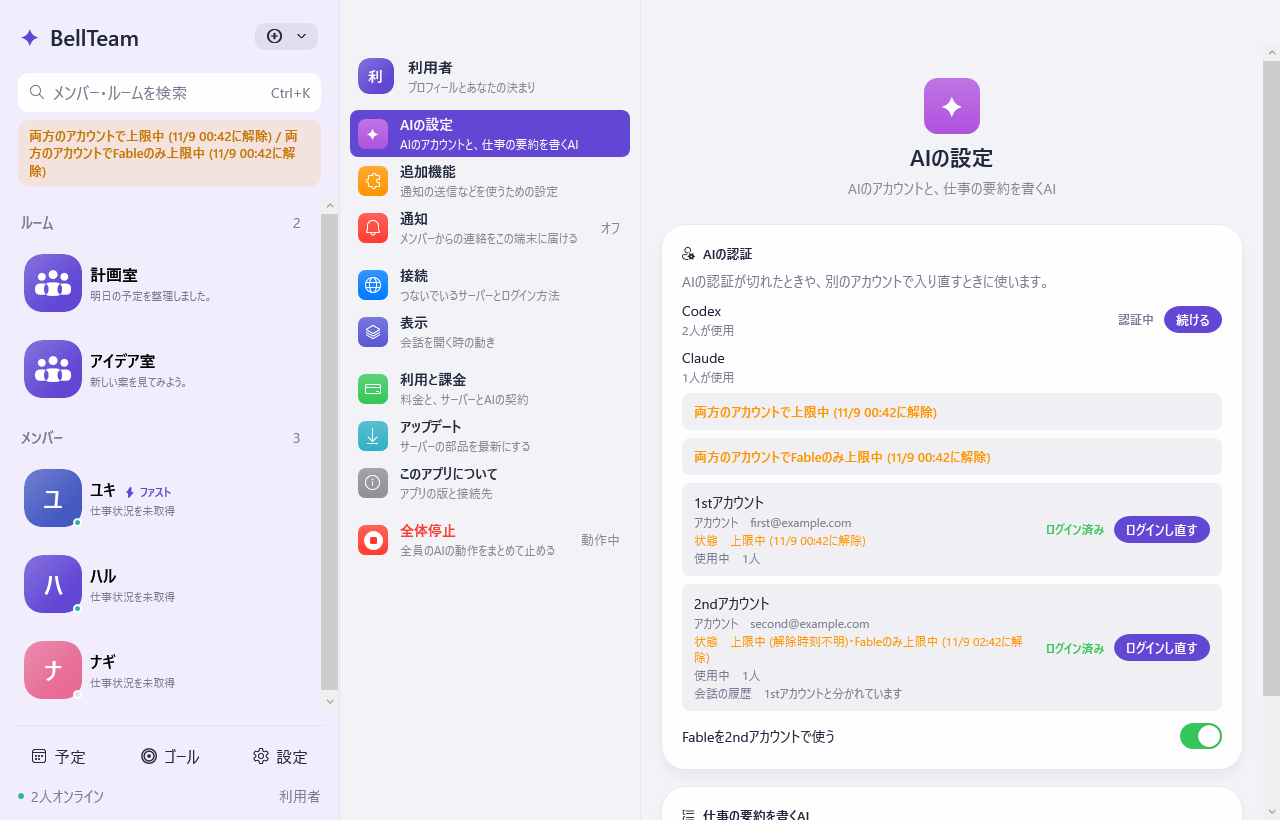
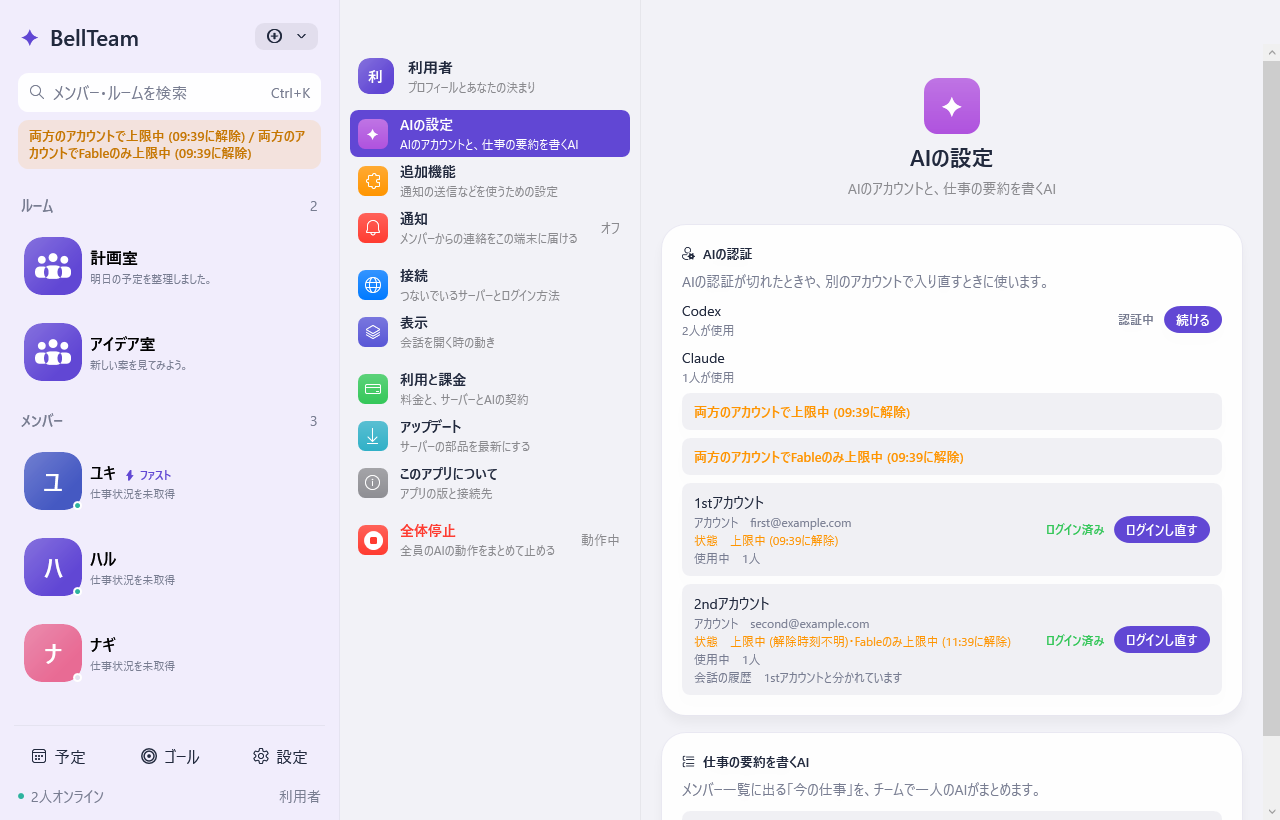
Windows: Claude accounts are limit-driven only; remove the Fable switch
Owner ruling 2026-11-09 (Kiro contract PR #711): no preference rules.
Remove the 「Fableを2ndアカウントで使う」 switch, POST /api/accounts/rules
and the use of account.preferredSlot (the 'normally' tooltip). Keep the
per-slot label, login state, per-model limits in JST, seats, the banners
and the old card on 404. Diagram and docs updated first.

diff --git a/windows/BellTeam.Tests/HarnessAccountsTests.cs b/windows/BellTeam.Tests/HarnessAccountsTests.cs
@@ -36,7 +36,6 @@ public sealed class HarnessAccountsTests
         Assert.Equal(new AccountLimit("all", "2026-11-08T04:00:00Z", "2026-11-09T23:00:00Z", "usage"), claude.Slots[0].Limits.Single());
         Assert.Null(claude.Slots[1].Limits.Single().ResetAt);
         Assert.Equal(new AccountAllLimited("all", "2026-11-08T08:00:00Z"), claude.AllLimited.Single());
-        Assert.Empty(list.Rules);
     }
 
     [Fact]
@@ -50,21 +49,6 @@ public sealed class HarnessAccountsTests
         }
         using var broken = new BellApi(new("http://localhost/"), new StubHandler((_, _) => Task.FromResult(StubHandler.Json("""{"harnesses":"x"}"""))));
         await Assert.ThrowsAnyAsync<Exception>(() => new HarnessAccountsApi(broken).ReadAsync());
-    }
-
-    [Theory]
-    [InlineData(true, """{"harness":"claude","modelPrefix":"claude-fable","slot":"2nd"}""")]
-    [InlineData(false, """{"harness":"claude","modelPrefix":"claude-fable","slot":null}""")]
-    public async Task SetRuleIsOneUpsertPostWithTheContractBody(bool useSecond, string expected)
-    {
-        var calls = new List<(HttpMethod, string, string)>();
-        using var api = new BellApi(new("http://localhost/"), new StubHandler(async (request, token) =>
-        {
-            calls.Add((request.Method, request.RequestUri!.AbsolutePath, await request.Content!.ReadAsStringAsync(token)));
-            return StubHandler.Json("""{"rules":[{"harness":"claude","modelPrefix":"claude-fable","slot":"2nd"},{"harness":"claude","modelPrefix":"claude-opus","slot":"1st"}]}""");
-        }));
-        var rules = await new HarnessAccountsApi(api).SetFableRuleAsync(useSecond);
-        Assert.Equal((HttpMethod.Post, "/api/accounts/rules", expected), Assert.Single(calls)); Assert.Equal(2, rules.Length);
     }
 
     [Fact]
@@ -112,10 +96,9 @@ public sealed class HarnessAccountsTests
     }
 
     [Fact]
-    public void SlotLinesAndTheFableSwitchComeFromTheList()
+    public void SlotLinesComeFromTheList()
     {
         var list = JsonSerializer.Deserialize<AccountsResponse>(Both, BellApi.Json)!;
-        Assert.True(AccountText.FableOnSecond(list)); Assert.False(AccountText.FableOnSecond(list with { Rules = [new("claude", "claude-fable", "1st")] }));
         var first = list.Claude!.Slots[0]; var second = list.Claude.Slots[1];
         Assert.Equal("first@example.com", AccountText.Login(first)); Assert.Equal("Fableのみ上限中 (23:00に解除)", AccountText.State(first, Now));
         Assert.Equal("未ログイン", AccountText.Login(second)); Assert.Equal("—", AccountText.State(second, Now));
@@ -176,14 +159,14 @@ public sealed class HarnessAccountsTests
     private static string[] Texts(DependencyObject root) => Descendants<TextBlock>(root).Select(text => text.Text).ToArray();
 
     [Fact]
-    public void CardShowsBothSlotRowsTheBannerAndTheSwitch()
+    public void CardShowsBothSlotRowsAndTheBannerWithoutAnyRuleSwitch()
     {
         RunSta(() =>
         {
             var posts = new List<string>();
             using var workspace = Server((request, _) => Task.FromResult(request.Method == HttpMethod.Get ? StubHandler.Json(AllLimited) : StubHandler.Json("""{"rules":[]}""")), posts);
             var window = OpenCard(workspace); var texts = Texts(window);
-            Assert.Contains("1stアカウント", texts); Assert.Contains("2ndアカウント", texts); Assert.Contains("Fableを2ndアカウントで使う", texts);
+            Assert.Contains("1stアカウント", texts); Assert.Contains("2ndアカウント", texts); Assert.DoesNotContain("Fableを2ndアカウントで使う", texts);   // Owner ruling 2026-11-09: limits alone pick the slot
             Assert.Contains("アカウント　a@example.com", texts); Assert.Contains("使用中　1人", texts);
             Assert.Contains(texts, text => text.StartsWith("両方のアカウントで上限中 ("));
             Assert.Contains("状態　上限中 (解除時刻不明)", texts);
@@ -222,27 +205,6 @@ public sealed class HarnessAccountsTests
         });
     }
 
-    [Fact]
-    public void SwitchSendsOnePostAndAnUnconfirmedAnswerIsNeverShownAsSuccess()
-    {
-        RunSta(() =>
-        {
-            var posts = new List<string>(); var answer = "ok";
-            using var workspace = Server((request, _) => Task.FromResult(request.Method == HttpMethod.Get ? StubHandler.Json(Both.Replace("\"rules\":[{\"harness\":\"claude\",\"modelPrefix\":\"claude-fable\",\"slot\":\"2nd\"}]", "\"rules\":[]"))
-                : answer == "ok" ? StubHandler.Json("""{"rules":[{"harness":"claude","modelPrefix":"claude-fable","slot":"2nd"}]}""") : StubHandler.Json("""{"error":"TEMPORARY_FAILURE"}""", HttpStatusCode.BadGateway)), posts);
-            var window = OpenCard(workspace);
-            var toggle = Descendants<ToggleButton>(window).Single(); Assert.False(toggle.IsChecked);
-            toggle.IsChecked = true; toggle.RaiseEvent(new RoutedEventArgs(ButtonBase.ClickEvent)); Await(Task.Delay(50)); Pump();
-            Assert.Equal(["/api/accounts/rules {\"harness\":\"claude\",\"modelPrefix\":\"claude-fable\",\"slot\":\"2nd\"}"], posts);
-            Assert.True(toggle.IsChecked);
-            answer = "bad"; toggle.IsChecked = false; toggle.RaiseEvent(new RoutedEventArgs(ButtonBase.ClickEvent)); Await(Task.Delay(50)); Pump();
-            Assert.Equal(2, posts.Count);              // never resent
-            Assert.True(toggle.IsChecked);             // back to the last known server state, not shown as switched off
-            Assert.Contains(Texts(window), text => text.StartsWith("切り替えの結果を確認できませんでした。"));
-            Assert.Contains(Descendants<Button>(window), button => button.Content as string == "一覧を更新"); window.Close();
-        });
-    }
-
     private static IEnumerable<T> Descendants<T>(DependencyObject root) where T : DependencyObject
     {
         if (root is T found) yield return found;
@@ -261,13 +223,13 @@ public sealed class HarnessAccountsTests
     public async Task AnAppRefusal403IsNotALostSignInButANonJson403Is()
     {
         var signIns = 0;
-        using var refused = new BellApi(new("http://localhost/"), new StubHandler((_, _) => Task.FromResult(StubHandler.Json("""{"error":"ACCOUNT_RULE_OWNER_REQUIRED"}""", HttpStatusCode.Forbidden))));
+        using var refused = new BellApi(new("http://localhost/"), new StubHandler((_, _) => Task.FromResult(StubHandler.Json("""{"error":"WORK_GRAPH_OWNER_REQUIRED"}""", HttpStatusCode.Forbidden))));
         refused.AuthenticationRequired += () => signIns++;
-        var error = await Assert.ThrowsAsync<BellApiException>(() => new HarnessAccountsApi(refused).SetFableRuleAsync(true));
-        Assert.Equal(AccountText.RuleOwnerRequiredCode, error.Code); Assert.False(error.RequiresLogin); Assert.Equal(0, signIns);
+        var error = await Assert.ThrowsAsync<BellApiException>(() => new HarnessAccountsApi(refused).ReadAsync());
+        Assert.Equal("WORK_GRAPH_OWNER_REQUIRED", error.Code); Assert.False(error.RequiresLogin); Assert.Equal(0, signIns);
         using var access = new BellApi(new("http://localhost/"), new StubHandler((_, _) => Task.FromResult(new HttpResponseMessage(HttpStatusCode.Forbidden) { Content = new StringContent("<html>Access denied</html>", System.Text.Encoding.UTF8, "text/html") })));
         access.AuthenticationRequired += () => signIns++;
-        var denied = await Assert.ThrowsAsync<BellApiException>(() => new HarnessAccountsApi(access).SetFableRuleAsync(true));
+        var denied = await Assert.ThrowsAsync<BellApiException>(() => new HarnessAccountsApi(access).ReadAsync());
         Assert.True(denied.RequiresLogin); Assert.Equal(1, signIns); Assert.Equal("Cloudflare Accessへログインしてください。", denied.Message);
     }
 

diff --git a/windows/BellTeam.Core/HarnessAccounts.cs b/windows/BellTeam.Core/HarnessAccounts.cs
@@ -22,36 +22,27 @@ public sealed record AccountHarness
     public AccountSlot[] Slots { get; init; } = [];
     public AccountAllLimited[] AllLimited { get; init; } = [];
 }
-public sealed record AccountRule(string Harness, string ModelPrefix, string? Slot);
 public sealed record AccountsResponse
 {
     public AccountHarness[] Harnesses { get; init; } = [];
-    public AccountRule[] Rules { get; init; } = [];
     public AccountHarness? Claude => Harnesses.FirstOrDefault(item => item.Harness == "claude" && item.Slots.Length != 0);
 }
-public sealed record AccountRulesResponse { public AccountRule[] Rules { get; init; } = []; }
 // Bot item 'account' (transport.seatAccount): absent on older bodies and null for a seat without a slot.
-public sealed record SeatAccount(string? Harness, string? Slot, string? PreferredSlot);
+// Limits alone pick the slot (Owner ruling 2026-11-09), so the server's preferredSlot is not read.
+public sealed record SeatAccount(string? Harness, string? Slot);
 
 public sealed class HarnessAccountsApi(BellApi api)
 {
-    public const string FablePrefix = "claude-fable";
     // null means an older body (HTTP 404 of GET /api/accounts): the caller shows the old single Claude card. Any other failure throws.
     public async Task<AccountsResponse?> ReadAsync(CancellationToken token = default)
     {
         try { return await api.GetAsync<AccountsResponse>("/api/accounts", token); }
         catch (BellApiException error) when (error.Status == HttpStatusCode.NotFound) { return null; }
     }
-    // One POST per call; the caller never resends it. slot null removes the rule.
-    public async Task<AccountRule[]> SetFableRuleAsync(bool useSecond, CancellationToken token = default)
-        => (await api.PostAsync<AccountRulesResponse>("/api/accounts/rules", new { harness = "claude", modelPrefix = FablePrefix, slot = useSecond ? "2nd" : (string?)null }, token)).Rules;
 }
 
 public static class AccountText
 {
-    // Kiro, 2026-11-08: the text for a 403 ACCOUNT_RULE_OWNER_REQUIRED on POST /api/accounts/rules.
-    public const string RuleOwnerRequired = "アカウントの設定を変えられるのはオーナーだけです。オーナーとしてサインインしているか確かめてください。";
-    public const string RuleOwnerRequiredCode = "ACCOUNT_RULE_OWNER_REQUIRED";
     private static readonly TimeSpan Jst = TimeSpan.FromHours(9);
     public static string? SlotTitle(string? slot) => slot switch { "1st" => "1stアカウント", "2nd" => "2ndアカウント", _ => null };
 
@@ -71,8 +62,6 @@ public static class AccountText
     }
     public static string[] BannerTexts(AccountsResponse? list, DateTimeOffset now)
         => (list?.Claude?.AllLimited ?? []).Select(item => "両方のアカウントで" + LimitText(item.Scope, item.EarliestResetAt, now)).ToArray();
-    public static bool FableOnSecond(AccountsResponse? list)
-        => list?.Rules.Any(rule => rule.Harness == "claude" && rule.ModelPrefix == HarnessAccountsApi.FablePrefix && rule.Slot == "2nd") == true;
     // A value the server did not send is 未確認, never a guess.
     public static string Login(AccountSlot slot) => slot.LoggedIn switch { true => string.IsNullOrEmpty(slot.Label) ? "ログイン済み" : slot.Label, false => "未ログイン", _ => "ログイン状態は未確認" };
     public static string State(AccountSlot slot, DateTimeOffset now)

diff --git a/windows/BellTeam.App/SettingsPages.cs b/windows/BellTeam.App/SettingsPages.cs
@@ -198,26 +198,6 @@ public sealed partial class SettingsWindow
             var (row, state) = AuthRow(names, harness, auth, slot.Slot, Reload, token); row.Margin = new Thickness(0);
             var card = FillRow(row, null); System.Windows.Automation.AutomationProperties.SetName(card, slotTitle); host.Children.Add(card); ready.Add(state);
         }
-        var rule = new Grid { Margin = new Thickness(0, 12, 0, 0) }; rule.ColumnDefinitions.Add(new ColumnDefinition()); rule.ColumnDefinitions.Add(new ColumnDefinition { Width = GridLength.Auto });
-        var ruleName = Text("Fableを2ndアカウントで使う", 14, Ink); ruleName.VerticalAlignment = VerticalAlignment.Center; rule.Children.Add(ruleName);
-        var current = list; var toggle = Switch("#34C759"); toggle.IsChecked = AccountText.FableOnSecond(current); Grid.SetColumn(toggle, 1); rule.Children.Add(toggle);
-        System.Windows.Automation.AutomationProperties.SetName(toggle, "Fableを2ndアカウントで使う");
-        var ruleError = Text("", 13, Red, null, new Thickness(0, 8, 0, 0)); ruleError.Visibility = Visibility.Collapsed;
-        host.Children.Add(rule); host.Children.Add(ruleError);
-        // One POST per click, never resent. A failed or unconfirmed answer leaves the switch at the last known server state and offers a re-read.
-        toggle.Click += async (_, _) =>
-        {
-            var wanted = toggle.IsChecked == true; toggle.IsEnabled = false; ruleError.Visibility = Visibility.Collapsed;
-            try { current = current with { Rules = await accounts.SetFableRuleAsync(wanted, token) }; toggle.IsChecked = AccountText.FableOnSecond(current); }
-            catch (OperationCanceledException) when (token.IsCancellationRequested) { }
-            catch (Exception error)
-            {
-                toggle.IsChecked = AccountText.FableOnSecond(current);
-                ruleError.Text = error is BellApiException { Code: AccountText.RuleOwnerRequiredCode } ? AccountText.RuleOwnerRequired : BellApiException.IsResultUnconfirmed(error) ? "切り替えの結果を確認できませんでした。「一覧を更新」で今の設定を確認してください。\n" + error.Message : "切り替えられませんでした。" + error.Message;
-                ruleError.Visibility = Visibility.Visible; if (host.Children[^1] is not Button) host.Children.Add(Retry());
-            }
-            finally { toggle.IsEnabled = true; }
-        };
         await Task.WhenAll(ready);
     }
 

diff --git a/windows/BellTeam.App/ProfileView.cs b/windows/BellTeam.App/ProfileView.cs
@@ -99,7 +99,7 @@ public sealed class ProfileView : StackPanel
     private static string Key(Workspace workspace, ConversationEntry entry)
     {
         var parts = new List<string?> { entry.Target.ToString(), entry.Origin };
-        if (entry.Bot is { } bot) parts.AddRange([bot.Name, bot.DisplayName, bot.Online.ToString(), bot.Harness, bot.Model, bot.ReasoningEffort, bot.Color, bot.AvatarVersion, bot.AvatarLargeVersion, bot.Position, bot.ProfileText, bot.Personality, bot.SpeechStyle, bot.Role, bot.Account?.Harness, bot.Account?.Slot, bot.Account?.PreferredSlot]);
+        if (entry.Bot is { } bot) parts.AddRange([bot.Name, bot.DisplayName, bot.Online.ToString(), bot.Harness, bot.Model, bot.ReasoningEffort, bot.Color, bot.AvatarVersion, bot.AvatarLargeVersion, bot.Position, bot.ProfileText, bot.Personality, bot.SpeechStyle, bot.Role, bot.Account?.Harness, bot.Account?.Slot]);
         if (entry.Room is { } room) { parts.AddRange([room.Name, room.Purpose, room.AvatarVersion]); foreach (var id in room.MemberIds) { var member = workspace.MemberEntry(id); parts.AddRange([id, member?.Name, member?.Bot?.AvatarVersion, member?.Bot?.Color]); } }
         return string.Join('\u0001', parts);
     }
@@ -245,8 +245,6 @@ public sealed class ProfileView : StackPanel
             var row = new StackPanel { Orientation = Orientation.Horizontal, Margin = new Thickness(0, 12, 0, 0) };
             row.Children.Add(new TextBlock { Text = label, FontSize = 14, Foreground = InspectorUi.Ink }); row.Children.Add(new TextBlock { Text = value, FontSize = 14, Foreground = InspectorUi.Ink, Margin = new Thickness(10, 0, 0, 0), TextWrapping = TextWrapping.Wrap });
             System.Windows.Automation.AutomationProperties.SetName(row, label + "　" + value); card.Children.Add(row);
-            // Like the Web tooltip: say so when the seat runs on the other slot than its rule prefers.
-            if (label == "アカウント" && AccountText.SlotTitle(bot.Account?.PreferredSlot) is { } preferred && bot.Account?.PreferredSlot != bot.Account?.Slot) row.ToolTip = "通常は" + preferred;
         }
         var screen = InspectorUi.Bordered("Botの画面を見る", ""); screen.Margin = new Thickness(0, 12, 0, 0); screen.Click += async (_, _) => await workspace.OpenScreenAsync(); card.Children.Add(screen);
         var restart = InspectorUi.Bordered("会話セッションを再起動"); restart.Margin = new Thickness(0, 12, 0, 0); card.Children.Add(restart);

diff --git a/docs/windows-app.md b/docs/windows-app.md
@@ -175,9 +175,9 @@ Windows nativeの`npm test`は426件中397件成功・29件失敗。例えば`te
 
 初回設定が済んでいない接続先では、主窓の初期設定（Mac版のOnboardingView）で、AIの選択、公式サイトへのリンク、利用者コード、専用のマスク入力、「認証を確認して始める」、「認証の状態を更新」、「使うAIを変更」、「接続先を変更」へ進む。表示する入力は、サーバーが観測した認証の段階だけ（Mac版と同じ。段階のないPTY入力の欄は出さない）。認証待ちの表示中だけ3秒ごとに状態を読み、ウィンドウが前面にある間だけ動く。読み取りに失敗しても止めず、失敗を表示して次の成功で消す。利用者の操作で送る書き込みは再送しない。設定の「AIの認証」はCLIごとの利用人数を表示し、公式の状態確認、再認証、専用入力とキー送信、取消に対応する。サーバーの開始警告を表示し、確認を断れば開始しない。認証待ちの表示中だけ3秒ごとに状態を読み、非アクティブ化・終了で止める。読み取りの失敗は表示して次の回も読み、次の成功で消す（トロニーの11-08裁定）。これは失敗の再試行ではなく、進行中の公式認証の状態照会である。入力は送信・非アクティブ化・終了時に消し、通信失敗の詳細へ値を含めない。
 
-Claudeの2アカウント（契約は[harness-accounts](architecture/modules/execution/harness-accounts.md)。Apple版は未着で、契約とWeb版から実装した。Apple版の到着後に照合する）：設定の「AIの認証」でClaudeの行は、`GET /api/accounts`が答える時、「1stアカウント」「2ndアカウント」の2行になる。各行は、アカウント（CLIが記録したメール。未ログインは「未ログイン」、値が無ければ「ログイン状態は未確認」）、状態（上限が無ければ「利用できます」、あれば「上限中 (HH:MMに解除)」「Fableのみ上限中 (23:00に解除)」を「・」でつなぐ。解除時刻が無ければ「解除時刻不明」）、使用中（席の人数）、会話の履歴が分かれている時の注記を持つ。時刻はJSTで、今日でなければ「11/9 08:00」のように日付を付ける。各行の「ログイン」「ログインし直す」は既存の公式認証の窓を、そのアカウント（`?slot=`）で開く。1stは従来と同じ要求（`slot`なし）。「Fableを2ndアカウントで使う」のスイッチは`POST /api/accounts/rules`（`{harness:'claude', modelPrefix:'claude-fable', slot:'2nd'|null}`）を1回だけ送り、答えの`rules`を表示する。両方のアカウントが同じ範囲で上限の時（`allLimited`）は、行の上に「両方のアカウントで上限中 (HH:MMに解除)」の帯を出す。旧本体（`GET /api/accounts`が404）では従来のClaude1行のまま。404以外の読み取り失敗は旧カードに見せず、理由と「一覧を更新」を出す。スイッチの結果が確認できない時（接続の失敗・5xx・読めない応答）は成功にせず、直前の状態へ戻して「切り替えの結果を確認できませんでした。」と「一覧を更新」を出し、自動では再送しない。この欄は定期の読み取りを持たない（認証の窓の3秒の状態照会は従来のまま）。
+Claudeの2アカウント（契約は[harness-accounts](architecture/modules/execution/harness-accounts.md)。Apple版は未着で、契約とWeb版から実装した。Apple版の到着後に照合する）：設定の「AIの認証」でClaudeの行は、`GET /api/accounts`が答える時、「1stアカウント」「2ndアカウント」の2行になる。各行は、アカウント（CLIが記録したメール。未ログインは「未ログイン」、値が無ければ「ログイン状態は未確認」）、状態（上限が無ければ「利用できます」、あれば「上限中 (HH:MMに解除)」「Fableのみ上限中 (23:00に解除)」を「・」でつなぐ。解除時刻が無ければ「解除時刻不明」）、使用中（席の人数）、会話の履歴が分かれている時の注記を持つ。時刻はJSTで、今日でなければ「11/9 08:00」のように日付を付ける。各行の「ログイン」「ログインし直す」は既存の公式認証の窓を、そのアカウント（`?slot=`）で開く。1stは従来と同じ要求（`slot`なし）。両方のアカウントが同じ範囲で上限の時（`allLimited`）は、行の上に「両方のアカウントで上限中 (HH:MMに解除)」の帯を出す。旧本体（`GET /api/accounts`が404）では従来のClaude1行のまま。404以外の読み取り失敗は旧カードに見せず、理由と「一覧を更新」を出す。」と「一覧を更新」を出し、自動では再送しない。この欄は定期の読み取りを持たない（認証の窓の3秒の状態照会は従来のまま）。上限だけで席のアカウントが決まり、オーナーが選ぶ規則や「Fableを2ndアカウントで使う」の切替は無い（オーナー裁定 2026-11-09、契約PR #711）。1stで上限中のモデルは2ndで動き、解除時刻か、1stで上限でないモデルへの変更で1stへ戻る。メンバーのカードは今の席のアカウントだけを出す。
 
-キロの回答（2026-11-08）に沿って、両方のアカウントが上限中の時はメンバー一覧の上にも同じ文（「両方のアカウントで上限中 (…)」）を出す。一覧を読み直すたびに`GET /api/accounts`を読み、旧本体（404）や読めない時は出さない（Webの`loadAccountsBanner`と同じ）。`web/harness-accounts.js`の文言を契約外の文言の正とする。ルールの変更が403 `ACCOUNT_RULE_OWNER_REQUIRED`で断られた時は「アカウントの設定を変えられるのはオーナーだけです。オーナーとしてサインインしているか確かめてください。」を出す。サーバーの403はどれもJSONの`error`付きの「オーナーが必要」の拒否なので、Windowsはそれをログイン切れとして扱わない。ログイン画面へ戻すのは401・転送・JSONでない403（Cloudflare Accessの拒否）だけ。
+キロの回答（2026-11-08）に沿って、両方のアカウントが上限中の時はメンバー一覧の上にも同じ文（「両方のアカウントで上限中 (…)」）を出す。一覧を読み直すたびに`GET /api/accounts`を読み、旧本体（404）や読めない時は出さない（Webの`loadAccountsBanner`と同じ）。`web/harness-accounts.js`の文言を契約外の文言の正とする。オーナーとしてサインインしているか確かめてください。」を出す。サーバーの403はどれもJSONの`error`付きの「オーナーが必要」の拒否なので、Windowsはそれをログイン切れとして扱わない。ログイン画面へ戻すのは401・転送・JSONでない403（Cloudflare Accessの拒否）だけ。
 
 22:27:49〜22:28:03 JST、トロニーが通常の利用者・非管理者・パッケージ外・窓なしで画面改修版を再導入した。exeの版は`0.4.0+24c3d807ee22d3ffe638113428827871e67ecab5`、DisplayVersionは0.4.0、設定は前後で同じ。22:28:06 JSTの導入exeのsmokeは終了コード0・成功で、41メンバー、3ルーム、会話10件、SSE接続を確認。終了後のBellTeam.exeは0件。Windowsがexeから取得する32pxのアイコンは32bit・934色で、スタートメニューはexeのアイコンを参照していた。
 

diff --git a/docs/windows-architecture.md b/docs/windows-architecture.md
@@ -93,7 +93,7 @@ flowchart LR
     C4[GoalsApi]
     C5[PlanningApi]
     C6[SettingsApi<br/>所有者・規範・追加機能・AIの認証・仕事の要約・全体停止]
-    C9[HarnessAccountsApi<br/>Claudeの1st・2ndアカウントの一覧とFableの規則]
+    C9[HarnessAccountsApi<br/>Claudeの1st・2ndアカウントの一覧]
     C7[UpdateCenter]
     C8[LocalSettings<br/>接続先・窓・通知・会話の開き方・要求ID]
   end
@@ -114,7 +114,7 @@ flowchart LR
   C5 -->|"/api/schedules"| API
   C6 -->|"/api/owner・user-rules・settings・settings/backgroundAgent・harness-auth（Claudeは?slot=2nd）・ai-control"| API
   C7 -->|"/api/updates・plans・operations"| API
-  C9 -->|"GET /api/accounts（404は旧本体）・POST /api/accounts/rules"| API
+  C9 -->|"GET /api/accounts（404は旧本体。上限だけで席のアカウントが決まり、設定する規則は無い）"| API
 ```
 
 - 状態の所有：会話・メンバー・予定・ゴール・追加機能・全体停止など本体の状態は、共通入口のAPIだけで読み書きする。Windowsが持つのは、このPCの設定（接続先・窓・起動中の通知・会話の開き方・Updateの要求ID）とログイン情報だけ。
